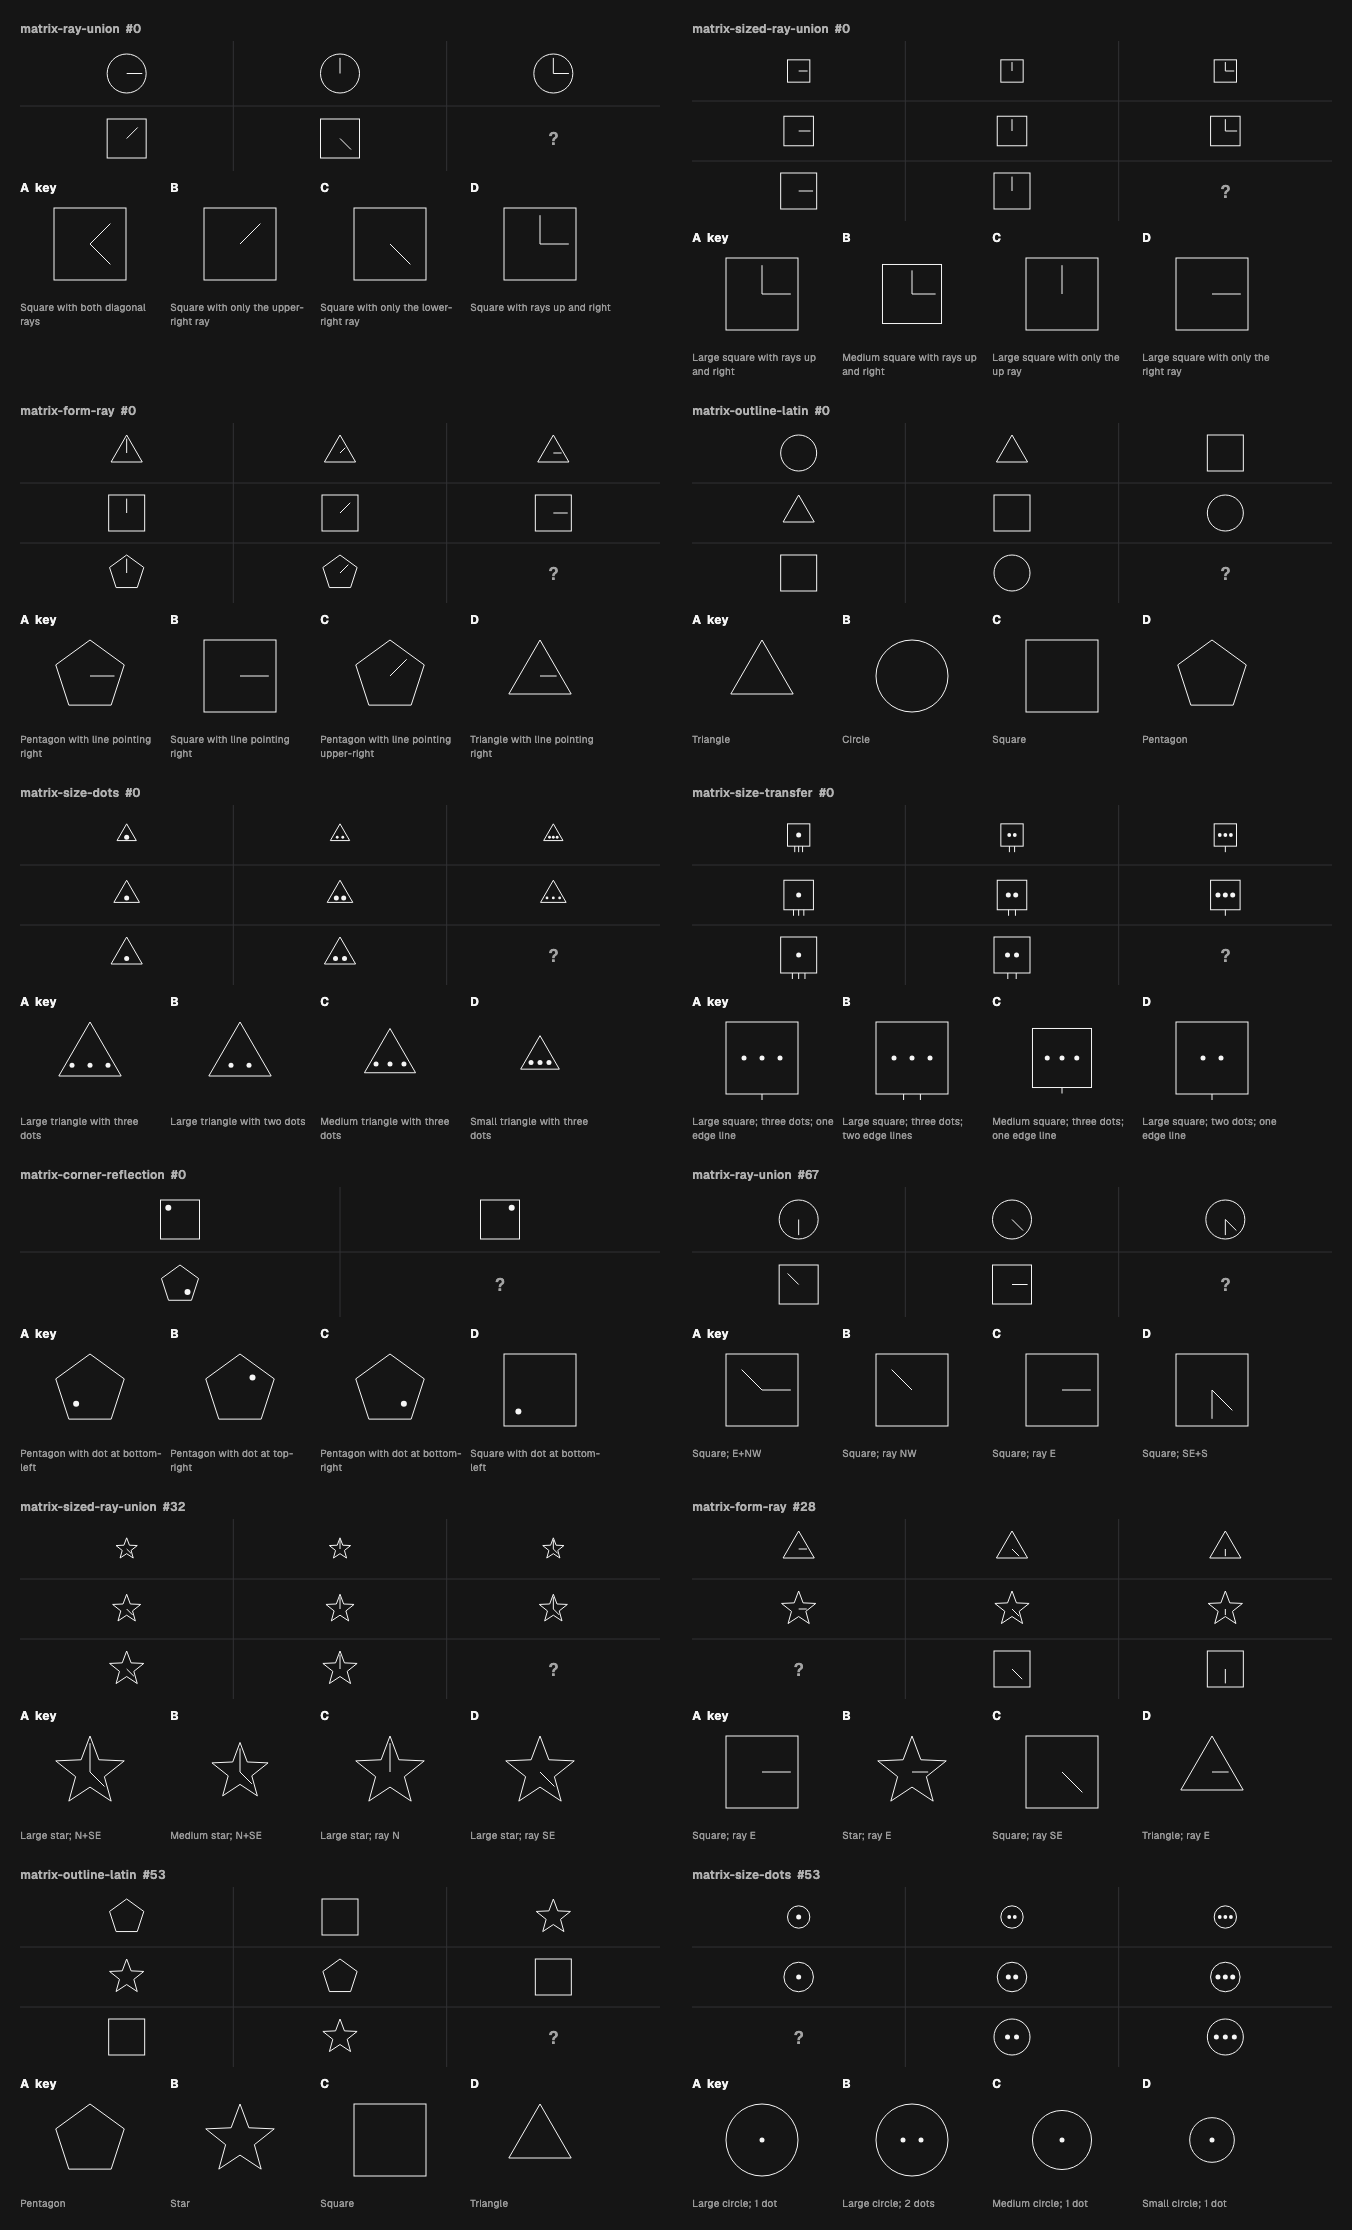
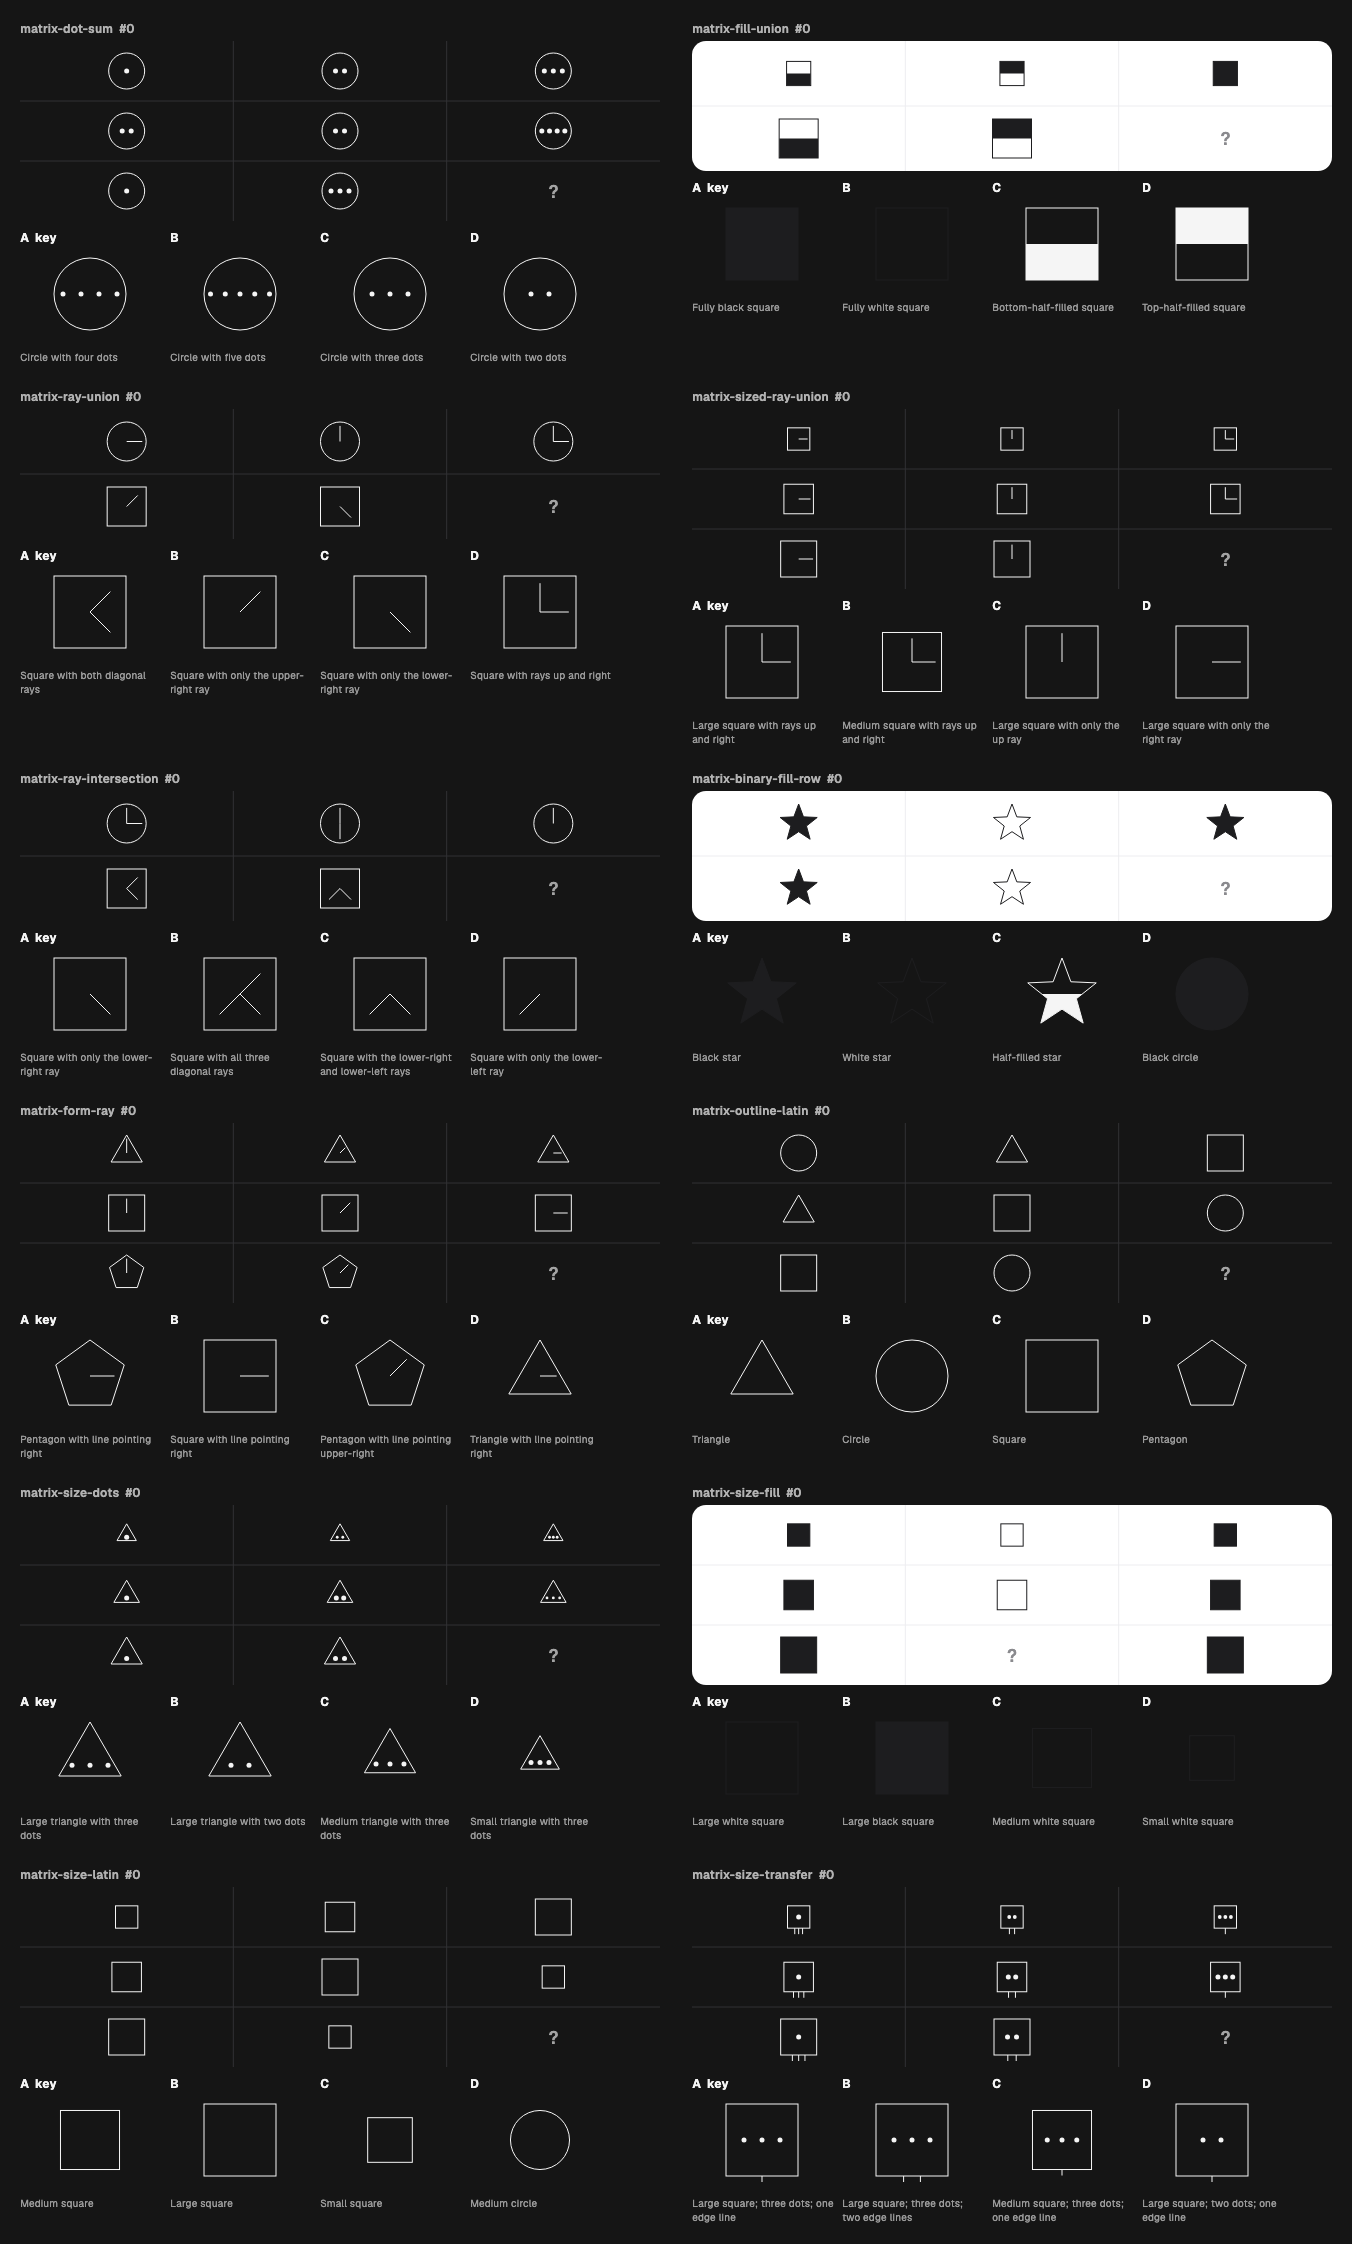
Redraw the figure sheets for all 30 active types, adding cube-net and a second matrix sheet so every type appears

diff --git a/test/tool/generator/figure_sheets_test.dart b/test/tool/generator/figure_sheets_test.dart
@@ -31,35 +31,45 @@ class _Sample {
 /// Every variant of every type directory, grouped by the stem figure kind.
 Map<String, Map<String, List<Map<String, Object?>>>> _load() {
   final out = <String, Map<String, List<Map<String, Object?>>>>{};
-  final files = Directory(_typesDir)
-      .listSync(recursive: true)
-      .whereType<File>()
-      .where((f) => f.path.endsWith('.variants.yaml'))
-      .toList()
-    ..sort((a, b) => a.path.compareTo(b.path));
+  final files =
+      Directory(_typesDir)
+          .listSync(recursive: true)
+          .whereType<File>()
+          .where((f) => f.path.endsWith('.variants.yaml'))
+          .toList()
+        ..sort((a, b) => a.path.compareTo(b.path));
   for (final file in files) {
     final id = file.uri.pathSegments.last.replaceAll('.variants.yaml', '');
     final variants = <Map<String, Object?>>[];
     for (final line in file.readAsLinesSync()) {
       if (!line.startsWith('  - ')) continue;
-      variants.add(
-        jsonDecode(line.substring(4))! as Map<String, Object?>,
-      );
+      variants.add(jsonDecode(line.substring(4))! as Map<String, Object?>);
     }
-    final kind = (variants.first['figureSpec']!
-        as Map<String, Object?>)['kind']! as String;
+    final kind =
+        (variants.first['figureSpec']! as Map<String, Object?>)['kind']!
+            as String;
     (out[kind] ??= {})[id] = variants;
   }
   return out;
 }
 
 /// Index 0 of each type, then seeded picks spread across the types.
-List<_Sample> _pick(Map<String, List<Map<String, Object?>>> types) {
-  final rng = Random(_seed);
-  final ids = types.keys.toList();
-  final picked = <_Sample>[
-    for (final id in ids) _Sample(id, types[id]!.first),
-  ];
+///
+/// With more types than samples, sheet [sheet] starts [sheet] * 12 types
+/// further along (wrapping), so every type shows on at least one sheet.
+List<_Sample> _pick(
+  Map<String, List<Map<String, Object?>>> types, {
+  int sheet = 0,
+}) {
+  final rng = Random(_seed + sheet);
+  final all = types.keys.toList();
+  final ids = all.length <= _samples
+      ? all
+      : [
+          for (var i = 0; i < _samples; i++)
+            all[(sheet * _samples + i) % all.length],
+        ];
+  final picked = <_Sample>[for (final id in ids) _Sample(id, types[id]!.first)];
   final used = {
     for (final id in ids) id: <int>{0},
   };
@@ -90,12 +100,12 @@ class _ItemPainter extends CustomPainter {
 
   @override
   void paint(Canvas canvas, Size size) => FigureSeriesFigure.paintItem(
-        canvas,
-        item,
-        size.center(Offset.zero),
-        36,
-        palette,
-      );
+    canvas,
+    item,
+    size.center(Offset.zero),
+    36,
+    palette,
+  );
 
   @override
   bool shouldRepaint(_ItemPainter old) => true;
@@ -139,15 +149,14 @@ Widget _sample(BuildContext context, String kind, _Sample s) {
     double size, {
     FontWeight w = FontWeight.w400,
     double a = 1,
-  }) =>
-      TextStyle(
-        fontFamily: 'Geist',
-        fontSize: size,
-        fontWeight: w,
-        color: ink.withValues(alpha: a),
-      );
-  final choices =
-      (s.variant['choices']! as List<Object?>).cast<Map<String, Object?>>();
+  }) => TextStyle(
+    fontFamily: 'Geist',
+    fontSize: size,
+    fontWeight: w,
+    color: ink.withValues(alpha: a),
+  );
+  final choices = (s.variant['choices']! as List<Object?>)
+      .cast<Map<String, Object?>>();
   return SizedBox(
     width: 640,
     child: Column(
@@ -217,11 +226,13 @@ Widget _sample(BuildContext context, String kind, _Sample s) {
 void main() {
   final byKind = _load();
   for (final kind in _kinds) {
-    for (final dark in [false, true]) {
-      final name = '$kind-${dark ? 'dark' : 'light'}';
-      testWidgets(
-        '$name figure sheet',
-        (tester) async {
+    final sheets = (byKind[kind]!.length / _samples).ceil();
+    for (var sheet = 0; sheet < sheets; sheet++) {
+      for (final dark in [false, true]) {
+        final name =
+            '$kind-${dark ? 'dark' : 'light'}'
+            '${sheet == 0 ? '' : '-${sheet + 1}'}';
+        testWidgets('$name figure sheet', (tester) async {
           await loadGoldenFonts();
           goldenFileComparator = TolerantGoldenComparator(
             Uri.parse(
@@ -232,7 +243,7 @@ void main() {
             ..physicalSize = const Size(2000, 4000)
             ..devicePixelRatio = 1;
           addTearDown(tester.view.reset);
-          final samples = _pick(byKind[kind]!);
+          final samples = _pick(byKind[kind]!, sheet: sheet);
           final key = GlobalKey();
           await tester.pumpWidget(
             MaterialApp(
@@ -276,6 +287,7 @@ void main() {
         },
         tags: goldenTag,
       );
+      }
     }
   }
 }
